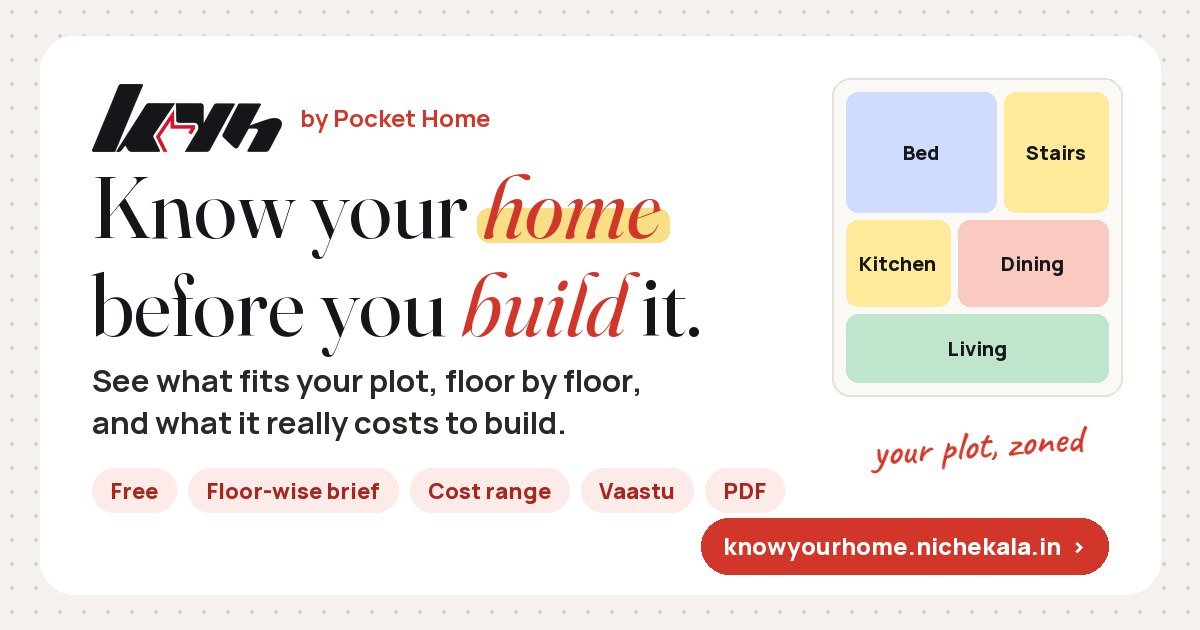
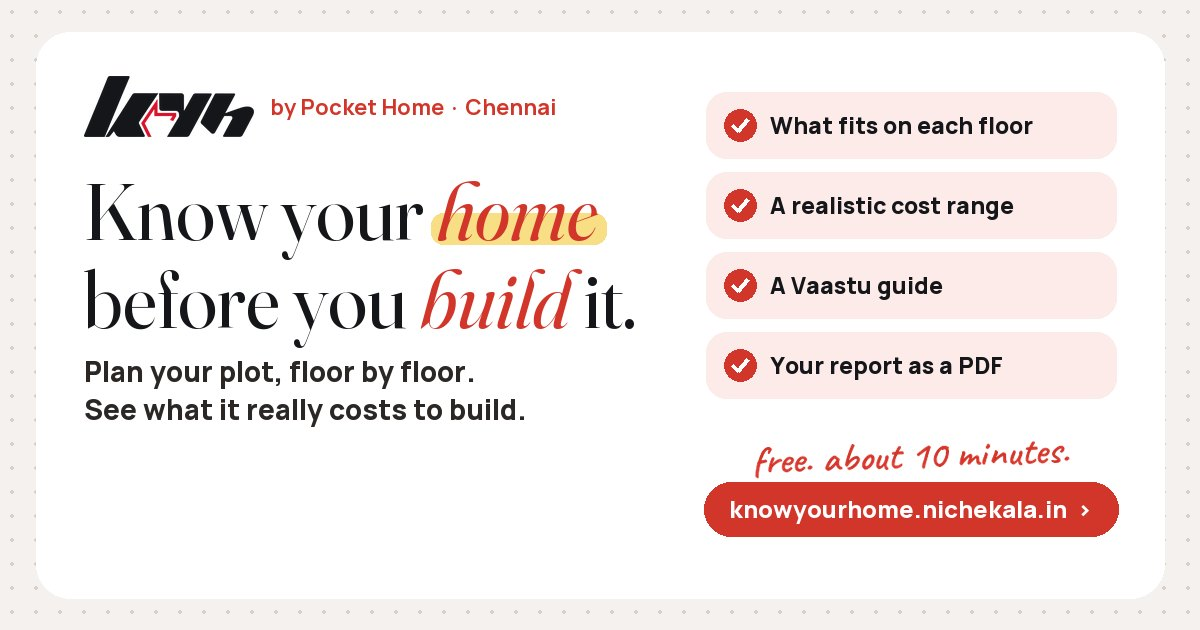
New link preview image

diff --git a/index.html b/index.html
@@ -11,7 +11,7 @@
 <meta property="og:url" content="https://knowyourhome.nichekala.in/">
 <meta property="og:title" content="Know your home before you build it.">
 <meta property="og:description" content="See what fits your plot, floor by floor, and what it really costs to build. A free home brief, cost range, Vaastu guide and PDF report. By Pocket Home, Chennai.">
-<meta property="og:image" content="https://knowyourhome.nichekala.in/media/share.jpg?v=1">
+<meta property="og:image" content="https://knowyourhome.nichekala.in/media/share.jpg?v=2">
 <meta property="og:image:width" content="1200">
 <meta property="og:image:height" content="630">
 <meta property="og:image:alt" content="Know your home before you build it. See what fits your plot and what it costs.">
